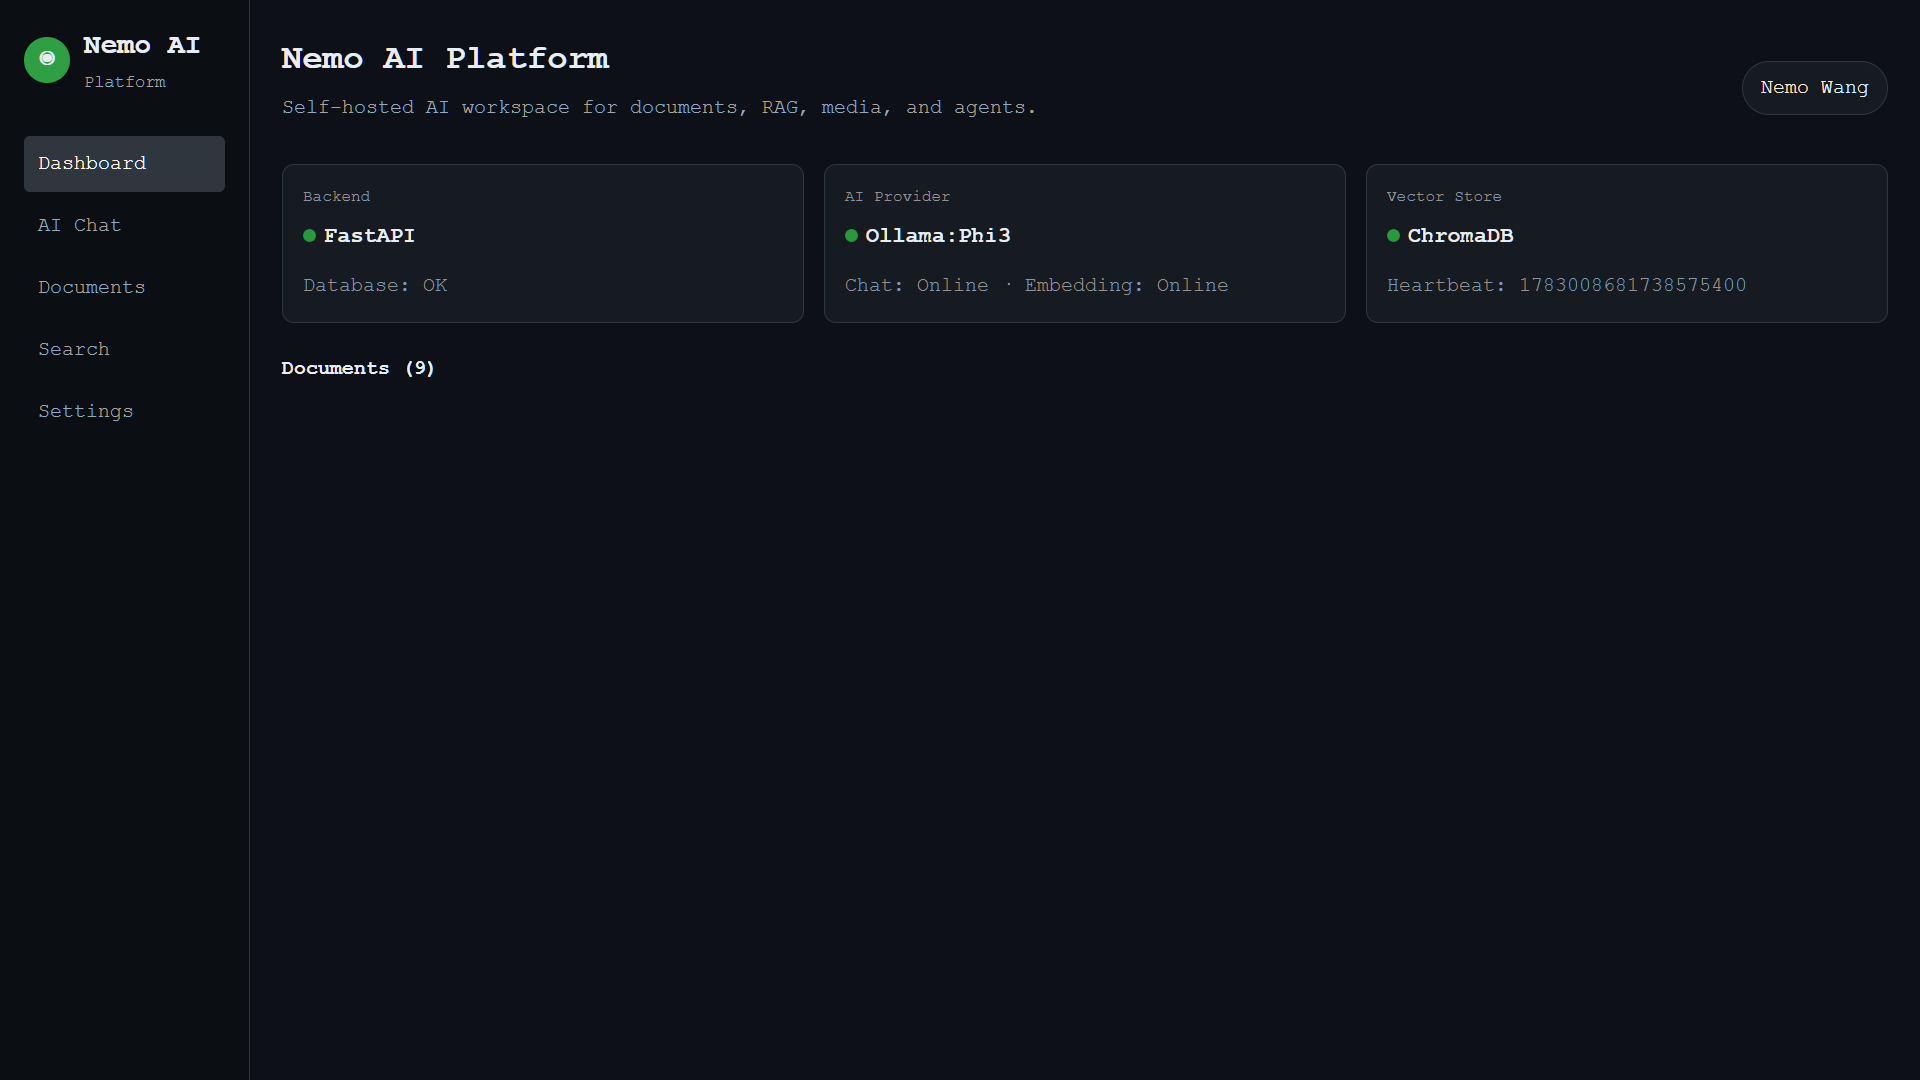
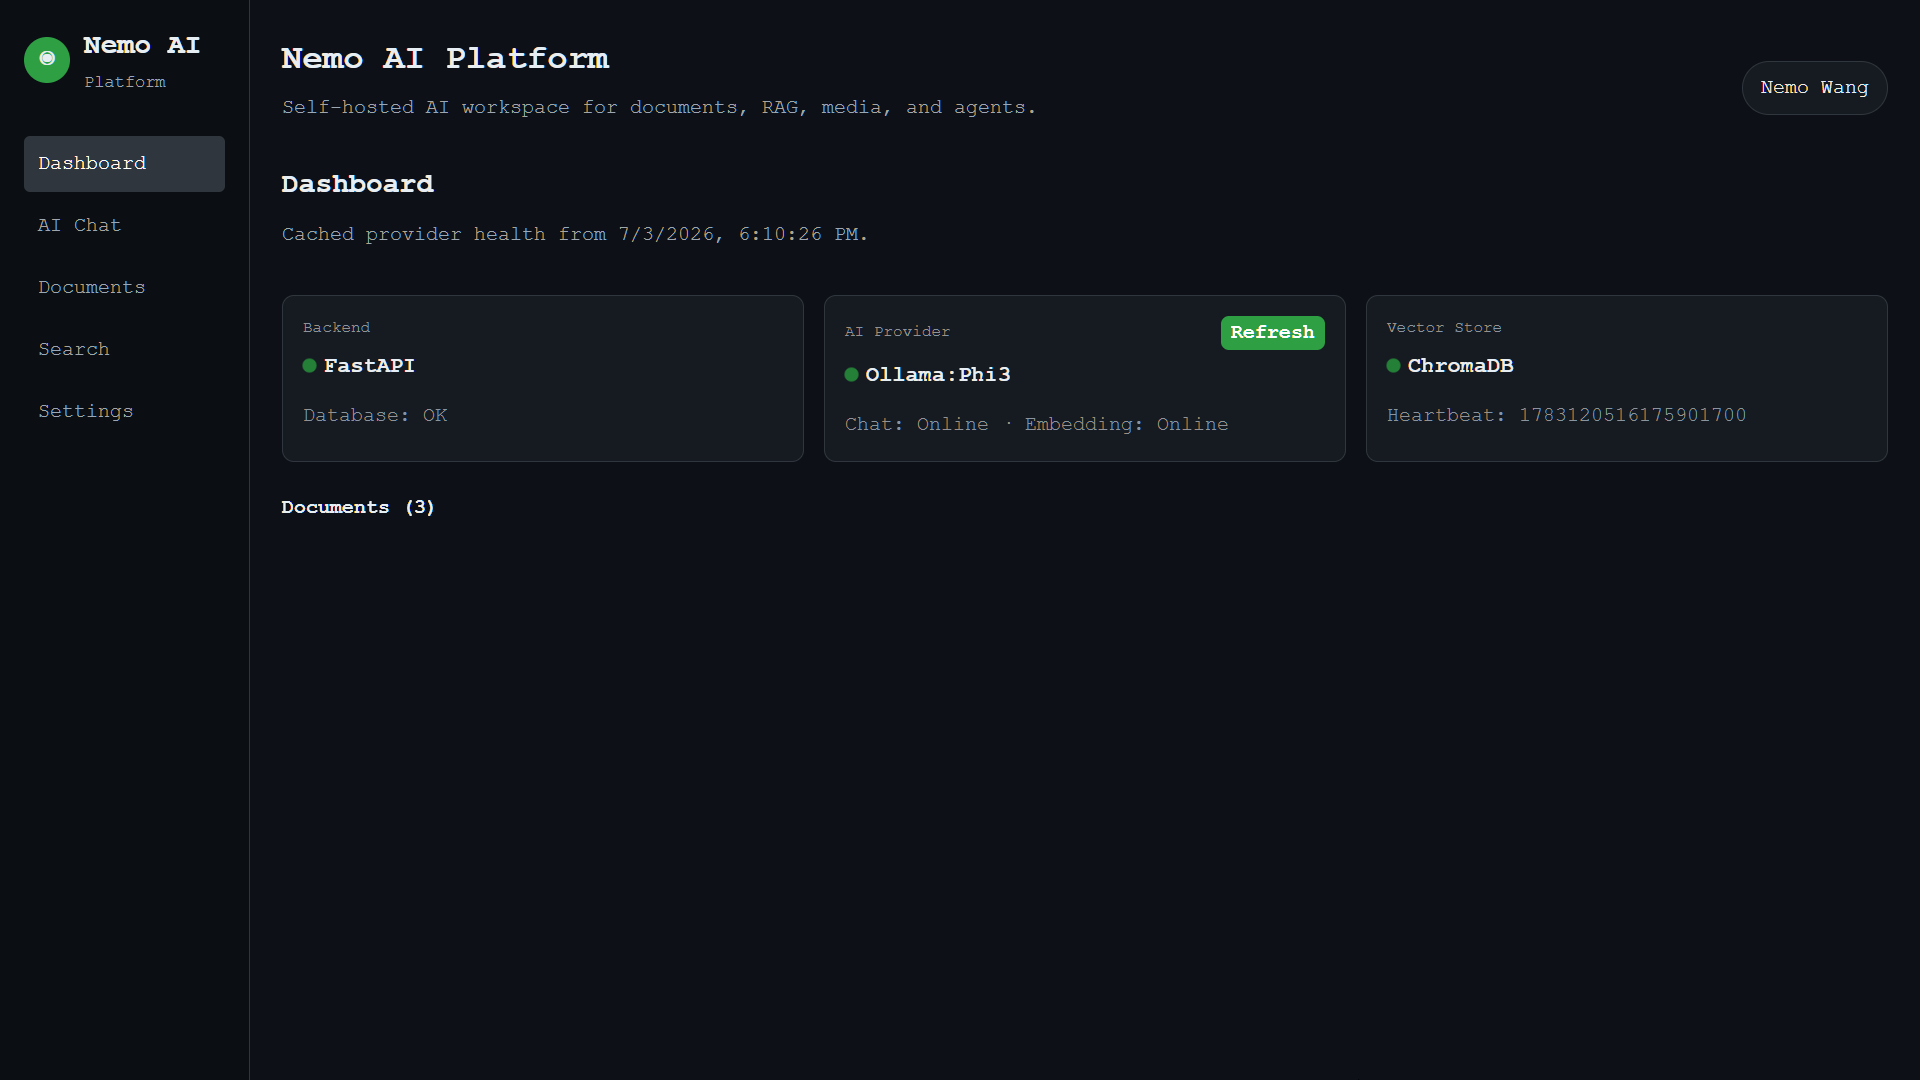
gemini embedding resource issue

diff --git a/frontend/src/pages/Dashboard.tsx b/frontend/src/pages/Dashboard.tsx
@@ -6,6 +6,11 @@ import {
   getVectorHealth,
 } from "../services/health";
 import { listDocuments } from "../services/document";
+import {
+  formatProviderHealthCacheTime,
+  getCachedProviderHealth,
+  setCachedProviderHealth,
+} from "../services/providerHealthCache";
 
 import type {
   BackendHealth,
@@ -19,24 +24,57 @@ export function Dashboard() {
   const [provider, setProvider] = useState<ProviderHealth | null>(null);
   const [vector, setVector] = useState<VectorHealth | null>(null);
   const [documents, setDocuments] = useState<DocumentItem[]>([]);
+  const [refreshingProvider, setRefreshingProvider] = useState(false);
+  const [providerStatus, setProviderStatus] = useState("Click refresh to check provider health.");
 
-  // 🔥 实时刷新（每 5 秒）
   useEffect(() => {
-    const load = () => {
+    const cachedProvider = getCachedProviderHealth();
+
+    if (cachedProvider) {
+      setProvider(cachedProvider.value);
+      setProviderStatus(
+        `Cached provider health from ${formatProviderHealthCacheTime(cachedProvider.updatedAt)}.`
+      );
+    }
+
+    const loadSystemStatus = () => {
       getBackendHealth().then(setBackend);
-      getProviderHealth().then(setProvider);
       getVectorHealth().then(setVector);
       listDocuments().then(setDocuments);
     };
 
-    load();
-    const timer = setInterval(load, 5000);
-
-    return () => clearInterval(timer);
+    loadSystemStatus();
   }, []);
+
+  async function refreshProviderHealth() {
+    if (refreshingProvider) return;
+
+    setRefreshingProvider(true);
+    setProviderStatus("Refreshing provider health...");
+
+    try {
+      const providerHealth = await getProviderHealth();
+      const cachedProvider = setCachedProviderHealth(providerHealth);
+      setProvider(providerHealth);
+      setProviderStatus(
+        `Provider health refreshed at ${formatProviderHealthCacheTime(cachedProvider.updatedAt)}.`
+      );
+    } catch (err) {
+      setProviderStatus(err instanceof Error ? err.message : "Provider refresh failed.");
+    } finally {
+      setRefreshingProvider(false);
+    }
+  }
 
   return (
     <div className="page">
+      <div className="dashboard-header">
+        <div>
+          <h1>Dashboard</h1>
+          <p className="page-subtitle">{providerStatus}</p>
+        </div>
+      </div>
+
       <div className="card-grid">
         {/* Backend */}
         <div className="card">
@@ -52,17 +90,26 @@ export function Dashboard() {
 
         {/* Provider */}
         <div className="card">
-          <div className="card-title">AI Provider</div>
+          <div className="card-header">
+            <div className="card-title">AI Provider</div>
+            <button
+              className="card-action-button"
+              disabled={refreshingProvider}
+              onClick={refreshProviderHealth}
+            >
+              {refreshingProvider ? "Refreshing..." : "Refresh"}
+            </button>
+          </div>
           <div className="card-value">
             <span className="status-dot" />
-            {provider ? provider.provider : "Loading..."}
+            {provider ? provider.provider : "Not checked"}
           </div>
           <div className="card-sub">
             {provider
               ? `Chat: ${provider.chat.ok ? "Online" : "Offline"} · Embedding: ${
                   provider.embedding.ok ? "Online" : "Offline"
                 }`
-              : "Checking..."}
+              : "Click refresh to check"}
           </div>
         </div>
 

diff --git a/frontend/src/pages/Settings.tsx b/frontend/src/pages/Settings.tsx
@@ -4,6 +4,11 @@ import {
   getProviderHealth,
   getVectorHealth,
 } from "../services/health";
+import {
+  formatProviderHealthCacheTime,
+  getCachedProviderHealth,
+  setCachedProviderHealth,
+} from "../services/providerHealthCache";
 import type {
   BackendHealth,
   ProviderHealth,
@@ -15,20 +20,49 @@ export default function Settings() {
   const [provider, setProvider] = useState<ProviderHealth | null>(null);
   const [vector, setVector] = useState<VectorHealth | null>(null);
   const [status, setStatus] = useState("");
+  const [providerStatus, setProviderStatus] = useState("Click refresh to check provider health.");
+  const [refreshingProvider, setRefreshingProvider] = useState(false);
 
   useEffect(() => {
+    const cachedProvider = getCachedProviderHealth();
+
+    if (cachedProvider) {
+      setProvider(cachedProvider.value);
+      setProviderStatus(
+        `Cached provider health from ${formatProviderHealthCacheTime(cachedProvider.updatedAt)}.`
+      );
+    }
+
     Promise.all([
       getBackendHealth(),
-      getProviderHealth(),
       getVectorHealth(),
     ])
-      .then(([backendHealth, providerHealth, vectorHealth]) => {
+      .then(([backendHealth, vectorHealth]) => {
         setBackend(backendHealth);
-        setProvider(providerHealth);
         setVector(vectorHealth);
       })
       .catch((err) => setStatus((err as Error).message));
   }, []);
+
+  async function refreshProviderHealth() {
+    if (refreshingProvider) return;
+
+    setRefreshingProvider(true);
+    setProviderStatus("Refreshing provider health...");
+
+    try {
+      const providerHealth = await getProviderHealth();
+      const cachedProvider = setCachedProviderHealth(providerHealth);
+      setProvider(providerHealth);
+      setProviderStatus(
+        `Provider health refreshed at ${formatProviderHealthCacheTime(cachedProvider.updatedAt)}.`
+      );
+    } catch (err) {
+      setProviderStatus(err instanceof Error ? err.message : "Provider refresh failed.");
+    } finally {
+      setRefreshingProvider(false);
+    }
+  }
 
   return (
     <div className="page">
@@ -43,8 +77,19 @@ export default function Settings() {
         <section className="panel settings-panel">
           <div className="panel-header">
             <h2>AI Provider</h2>
-            <span>{provider?.provider ?? "Loading"}</span>
+            <div className="panel-header-actions">
+              <span>{provider?.provider ?? "Not checked"}</span>
+              <button
+                className="card-action-button"
+                disabled={refreshingProvider}
+                onClick={refreshProviderHealth}
+              >
+                {refreshingProvider ? "Refreshing..." : "Refresh"}
+              </button>
+            </div>
           </div>
+
+          <div className="settings-hint">{providerStatus}</div>
 
           <div className="settings-row">
             <span>Chat</span>

diff --git a/frontend/src/App.css b/frontend/src/App.css
@@ -229,6 +229,12 @@ h2 {
   font-size: 22px;
 }
 
+.panel-header-actions {
+  display: flex;
+  align-items: center;
+  gap: 10px;
+}
+
 /* ==============================
    Inputs
 ============================== */
@@ -268,6 +274,11 @@ button {
 
 button:hover {
   opacity: .95;
+}
+
+button:disabled {
+  cursor: not-allowed;
+  opacity: .55;
 }
 
 /* ==============================
@@ -417,7 +428,6 @@ button:hover {
 .page button {
   display: block;
   margin-left: auto;
-  margin-bottom: 16px;
 }
 
 .documents-layout {
@@ -588,6 +598,13 @@ button:hover {
   color: var(--subtext);
 }
 
+.settings-hint {
+  color: var(--subtext);
+  font-size: 14px;
+  line-height: 1.5;
+  margin-bottom: 8px;
+}
+
 .settings-error {
   margin-top: 16px;
   color: #f85149;
@@ -709,11 +726,32 @@ button:hover {
   margin-top: 20px;
 }
 
+.dashboard-header {
+  display: flex;
+  justify-content: space-between;
+  gap: 20px;
+  align-items: flex-start;
+}
+
 .card {
   background: #161b22;
   border-radius: 12px;
   padding: 20px;
   border: 1px solid #30363d;
+}
+
+.card-header {
+  display: flex;
+  justify-content: space-between;
+  gap: 12px;
+  align-items: center;
+}
+
+.card-action-button {
+  padding: 7px 10px;
+  border-radius: 8px;
+  font-size: 20px;
+  line-height: 1;
 }
 
 .card-title {

diff --git a/frontend/src/services/providerHealthCache.ts b/frontend/src/services/providerHealthCache.ts
@@ -1,0 +1,35 @@
+import type { ProviderHealth } from "../types/api";
+
+const AI_PROVIDER_CACHE_KEY = "nemo_ai_provider_health";
+
+export type CachedProviderHealth = {
+  value: ProviderHealth;
+  updatedAt: string;
+};
+
+export function getCachedProviderHealth(): CachedProviderHealth | null {
+  const raw = localStorage.getItem(AI_PROVIDER_CACHE_KEY);
+
+  if (!raw) return null;
+
+  try {
+    return JSON.parse(raw) as CachedProviderHealth;
+  } catch {
+    localStorage.removeItem(AI_PROVIDER_CACHE_KEY);
+    return null;
+  }
+}
+
+export function setCachedProviderHealth(value: ProviderHealth) {
+  const cached: CachedProviderHealth = {
+    value,
+    updatedAt: new Date().toISOString(),
+  };
+
+  localStorage.setItem(AI_PROVIDER_CACHE_KEY, JSON.stringify(cached));
+  return cached;
+}
+
+export function formatProviderHealthCacheTime(updatedAt: string) {
+  return new Date(updatedAt).toLocaleString();
+}
